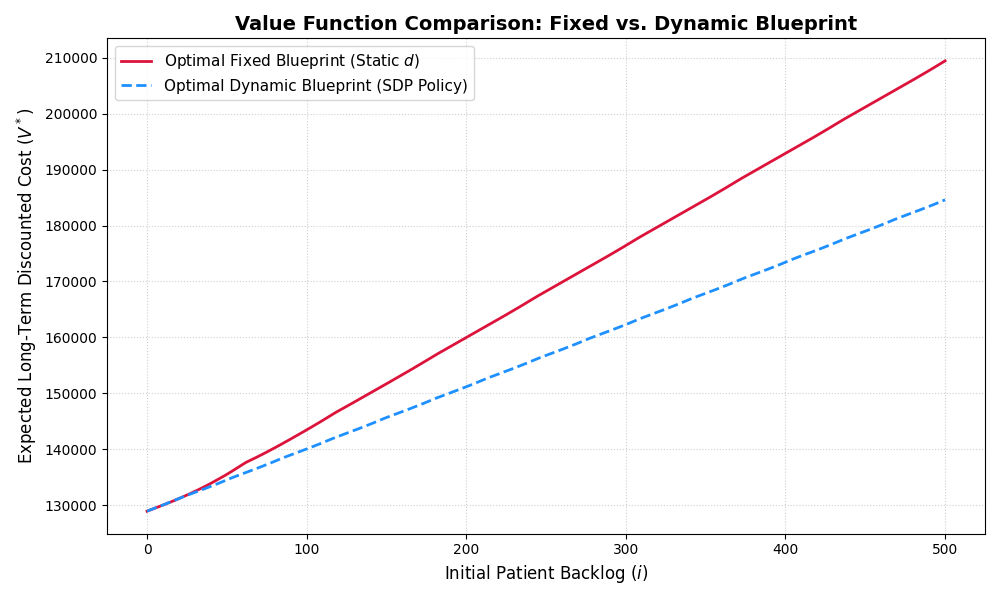
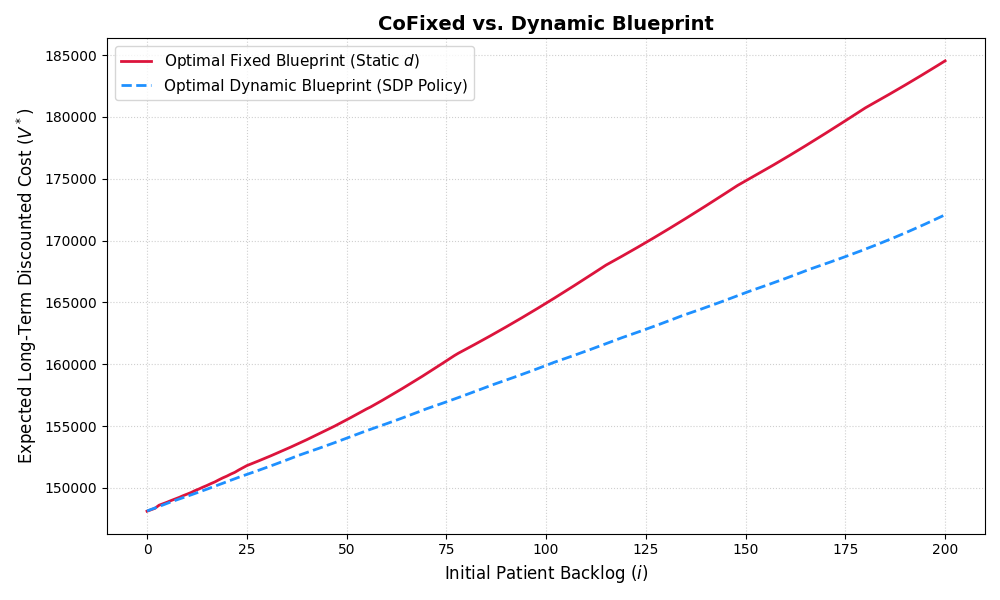
Fixed it for comparison as well

diff --git a/dynamic_blueprint/dynamic_fixed_blueprint_comparison.py b/dynamic_blueprint/dynamic_fixed_blueprint_comparison.py
@@ -29,11 +29,10 @@ def compute_fixed_value(initial_state: int, d: int) -> float:
     
     # Pre-extract values outside loop
     d_op_cost = d * operating_costs
-    mult_32_d = 32 * d
 
     while current_discount > epsilon:
         # Fast lookup with a fallback if M drifts outside precomputed limits
-        M = int(mult_32_d - round(state))
+        M = int(16*d - round(state))
         expectation = exp_lookup.get(M, lambda_a if M < 0 else 0.0)
 
         cost = (7.0 * state + 2.5 * expectation) * wait_costs + d_op_cost
@@ -46,7 +45,7 @@ def compute_fixed_value(initial_state: int, d: int) -> float:
 
 def compute_optimal_value(initial_state: int):
     print(f"Computing state {initial_state}")
-    d_values = range(int(290/32), 10*num_scanners + 1)
+    d_values = range(int(290/16), 10*num_scanners + 1)
     minimum_value = 1e9
     minimum_d = -1
     for d in d_values:
@@ -58,15 +57,15 @@ def compute_optimal_value(initial_state: int):
 
 
 if __name__ == "__main__":
-    max_state = 500
+    max_state = 200
     states = list(range(max_state+1))
-    d_values = list(range(int(290 / 32), 10 * num_scanners + 1))
+    d_values = list(range(int(290 / 16), 10 * num_scanners + 1))
 
     fixed_values = []
     for init_state in states:
         min_value = 1e9
         for d in d_values:
-            if 32 * d < init_state: 
+            if 16 * d < init_state: 
                 continue
             value = compute_fixed_value(init_state, d)
             if value < min_value:

diff --git a/dynamic_blueprint/dynamic_blueprint.py b/dynamic_blueprint/dynamic_blueprint.py
@@ -66,7 +66,7 @@ def solve_blueprint_sdp_slow(num_scanners, wait_cost, operating_costs, discount)
 
 
 def solve_blueprint_sdp_fast(solver_type, num_scanners, wait_cost, operating_costs, discount) -> Tuple[dict, dict, int]:
-    max_state = 500
+    max_state = 200
     epsilon = 1e-2
 
     max_d = 10 * num_scanners